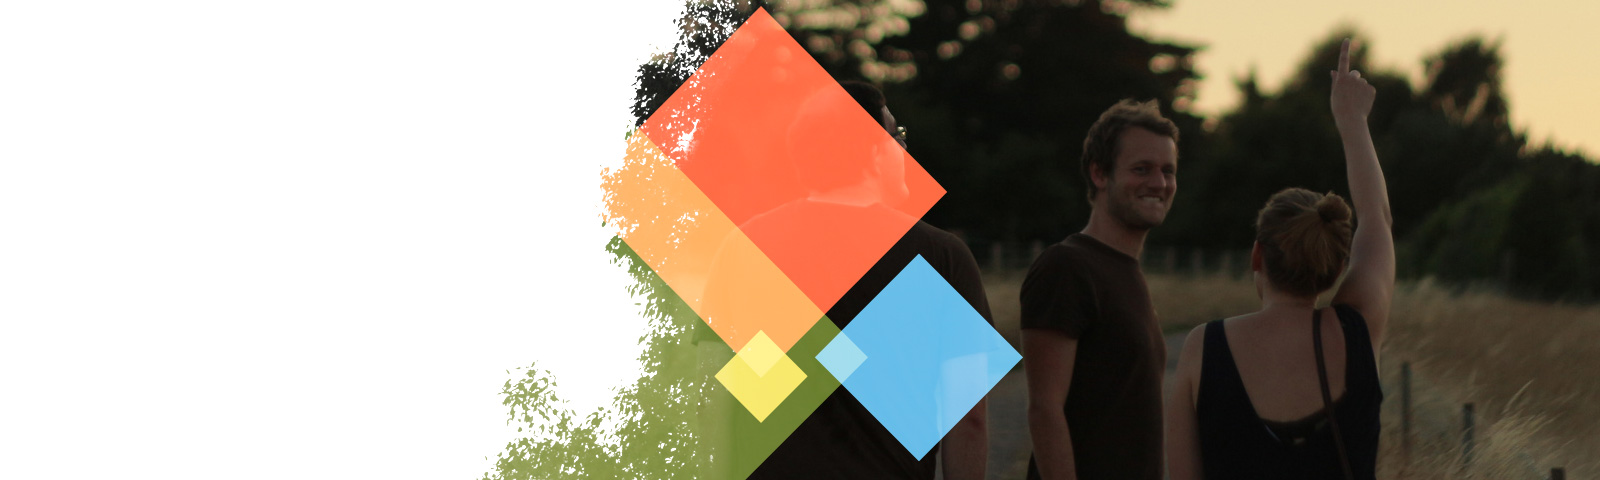
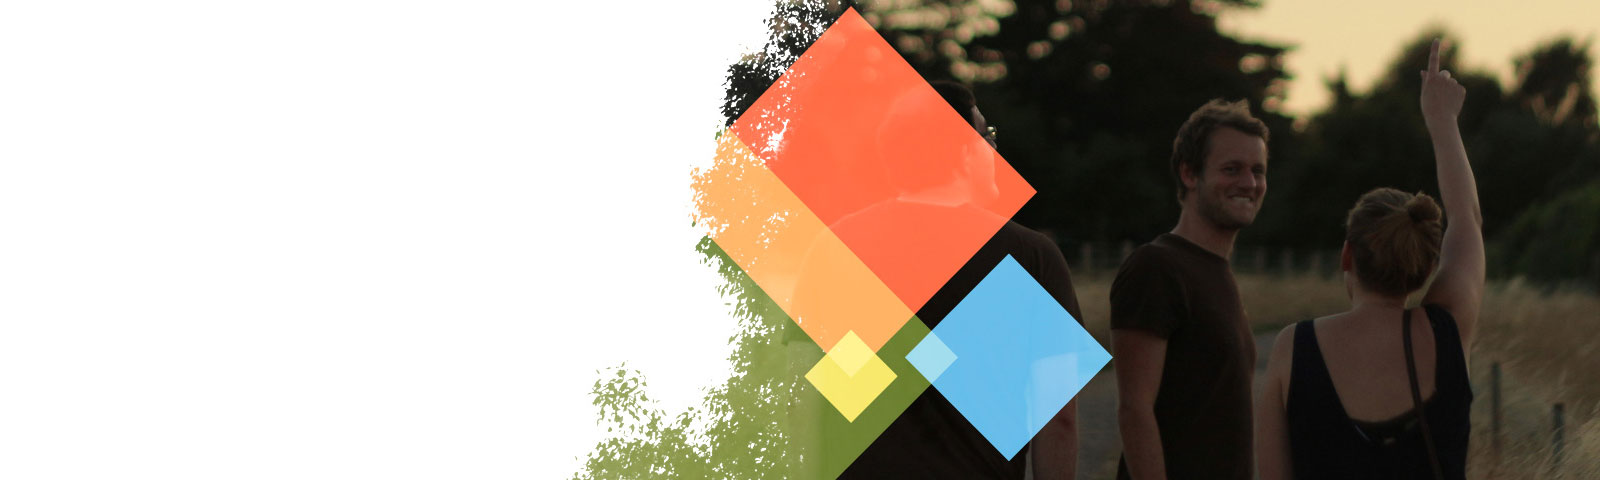
About section and blog

diff --git a/torchbox/static/torchbox/css/medium.css b/torchbox/static/torchbox/css/medium.css
@@ -166,13 +166,18 @@
 	    letter-spacing: -0.06em;
 	}
 
+	.page-standardpage .were-tbx-2 h2 {
+	    font-size: 2.5em;
+	    font-weight: bold;
+	}
+
 	.page-standardpage .were-tbx-2 h3 {
 	    font-size: 1.7em;
 	    font-weight: normal;
 	}
 
 	.page-standardpage .were-tbx-2 li {
-	    padding: 8em 2em; 
+	    padding: 12em 4em; 
 	    margin: 0;
 	    border-top: 1px solid rgba(0, 0, 0, 0.1);
 	}
@@ -181,13 +186,31 @@
 	    border-top: none;
 	}
 
-	.page-standardpage .were-tbx-2 li.even {
-		text-align: right;
+	.page-standardpage .were-tbx-2 li:nth-child(2) {
+		background: url("/static/torchbox/images/geeks.jpg") no-repeat black;
+		-webkit-background-size: cover;
+		color: white;
 	}
 
-	.page-standardpage .were-tbx-2 li.2 {
-		background: url("/static/torchbox/images/geeks.jpg") no-repeat;
+	.page-standardpage .were-tbx-2 li:nth-child(2) div {
+		float: right;
+		max-width: 35%;
+	}
+
+	.page-standardpage .were-tbx-2 li:nth-child(3) {
+		background: url("/static/torchbox/images/equip-flip.jpg") no-repeat;
 		-webkit-background-size: cover;
+	}
+
+	.page-standardpage .were-tbx-2 li:nth-child(4) {
+		background: #222;
+		color: white;
+		padding: 3em 4em 1em 4em;
+		text-align: center;
+	}
+
+	.page-standardpage .were-tbx-2 li:nth-child(3) div {
+		max-width: 60%;
 	}
 
 
@@ -229,10 +252,29 @@
 		padding: 6em 2em;
 	}
 
+	.page-blogindexpage .blog-title {
+		background: url("/static/torchbox/images/balloons.jpg") no-repeat;
+		-webkit-background-size: cover;
+	}
+
 	.page-blogindexpage h1 {
-		font-size: 4em;
+		font-size: 5em;
 		font-weight: bold;
 		margin-bottom: 0.25em;
+		letter-spacing: -0.03em;
+		color: #333;
+		position: relative;
+	}
+
+	.page-blogindexpage h1:before {
+			position: absolute;
+			background: url("/static/torchbox/images/balloon.svg") no-repeat;
+			content: "";
+			background-size: 100% auto;
+			top: 50px;
+			right: 0;
+			width: 119px;
+			height: 150px;
 	}
 
 	.page-blogindexpage h2 {
@@ -373,7 +415,7 @@
 			position: relative;
 	   	margin: 0em 0em 0em 0em;
 	   	padding: 8em 4em 8em 4em;
-	   	border-top: 1px solid rgba(0, 0, 0, 0.1);
+	   	border-top: 1px solid white;
 	   	display: block;
 	}
 
@@ -394,7 +436,7 @@
 	}
 
 	.page-jobindexpage .benefits li > div > div {
-		max-width: 24em;
+		max-width: 30em;
 	}
 
 	.page-jobindexpage .benefits li:nth-child(odd) div {
@@ -410,12 +452,13 @@
 		-webkit-background-size: cover;
 	}
 	.page-jobindexpage .benefits .two {
-		background: url("/static/torchbox/images/jobs-placeholder-06.jpg") no-repeat;
+		background: url("/static/torchbox/images/jobs-placeholder-06.jpg") no-repeat #f5f4e9;
 		-webkit-background-size: cover;
 	}
 	.page-jobindexpage .benefits .three {
 		background: url("/static/torchbox/images/jobs-placeholder-03.jpg") no-repeat;
 		-webkit-background-size: cover;
+		padding: 13em 4em 3em 4em;
 	}
 	.page-jobindexpage .benefits .four {
 		background: url("/static/torchbox/images/jobs-placeholder-06.jpg") no-repeat;

diff --git a/torchbox/static/torchbox/css/main.css b/torchbox/static/torchbox/css/main.css
@@ -241,9 +241,9 @@ main nav li.active a {
 }
 
 main nav li.active a:after {
-    content:"";
-    background-color: #ccc;
-    width: 1px;
+  /*  content:""; */
+  /*  background-color: #ccc; */
+  /*  width: 1px; */
     height: 0.5em;    
     display:block;
     position: absolute;
@@ -743,6 +743,13 @@ main nav li.active a:after {
     -webkit-font-smoothing: antialiased;
 }
 
+.page-blogindexpage .blog-title div {
+    margin: -4.5em auto 0 auto;
+    padding: 18em 2em 2em 2em;
+    max-width: 48em;
+}
+
+
 .page-blogindexpage h2 {
     margin-bottom: 0.5em;
 
@@ -757,19 +764,17 @@ main nav li.active a:after {
 }
 
 .page-blogindexpage main a {
-    border-bottom: 1px solid #fff;
-    border-bottom: 1px solid rgba(255,255,255,0.4);
+    border-bottom: 1px solid rgba(255,255,255,0.1);
     padding: 3em 1em;
     transition: background-color 0.2s ease;
 }
 
 .page-blogindexpage main a:hover {
-    background-color: rgba(248,232,164,0.2);
+    background-color: rgba(0,0,0,0.2);
 }
 
 .page-blogindexpage main a:first-child {
-    border-top: 1px solid #fff;
-    border-top: 1px solid rgba(255,255,255,0.4);
+    border-top: 1px solid rgba(255,255,255,0.2);
 }
 
 .page-blogindexpage main .listing .container {

diff --git a/torchbox/templates/torchbox/standard_page.html b/torchbox/templates/torchbox/standard_page.html
@@ -16,12 +16,14 @@
         {% endif %}
     </section>   
 
-    <section class="container were-tbx-2">
+    <section class="were-tbx-2">
         {% if self.content_block.all %}
         <ul class="listing grid clearfix">
             {% for block in self.content_block.all %}
-            <li class="{{ forloop.counter }} {% cycle 'odd' 'even' %}">                
+            <li class="{{ forloop.counter }} {% cycle 'odd' 'even' %}">   
+                <div>             
                 {{ block.content|richtext }}
+                </div>
             </li>
             {% endfor %}
         </ul>
@@ -30,7 +32,7 @@
 
     <section>
         <div class="map">
-            <iframe src="https://mapsengine.google.com/map/embed?mid=zZ_tGG5Cpnko.kKn0eNls4Kc8" width="100%" height="480"></iframe>
+            <iframe src="https://mapsengine.google.com/map/embed?mid=zZ_tGG5Cpnko.kKn0eNls4Kc8" width="100%" height="600"></iframe>
         </div>
     </section>
 

diff --git a/torchbox/templates/torchbox/blog_index_page.html b/torchbox/templates/torchbox/blog_index_page.html
@@ -3,12 +3,14 @@
 
 {% block content %}
     <section class="blog">
-        <div class="container visuallyhidden">
+        <div class="blog-title">
+            <div>
             <h1>{{ self.title }}</h1>
             {# Optional heading appears if filtering by tag #}
             {% if request.GET.tag|length %}
                 <p>Showing posts tagged as {{ request.GET.tag|safe }} <a href=" {% pageurl self %} ">Show all</a></p>
             {% endif %}
+            </div>
         </div>
         <ul class="listing clearfix">
         {% for blog in blogs %}
